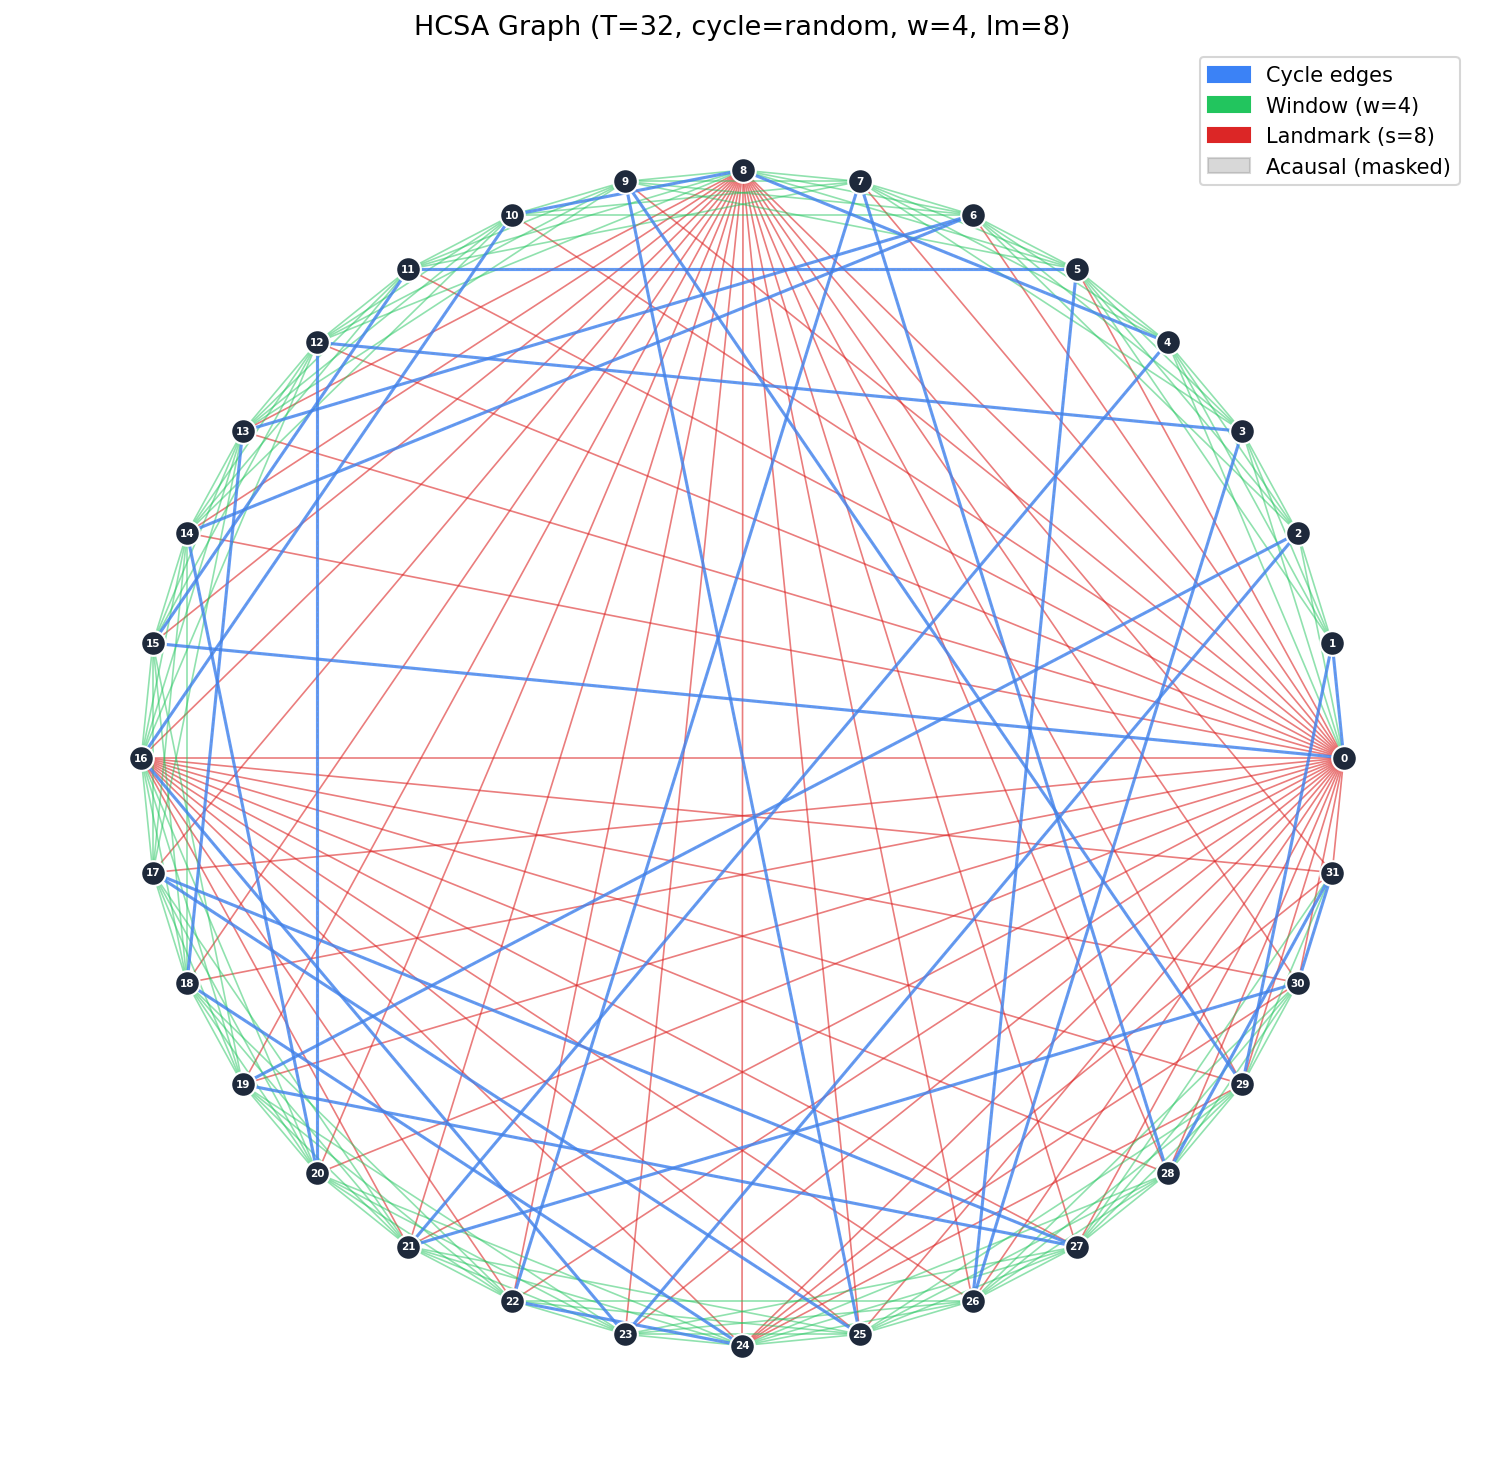
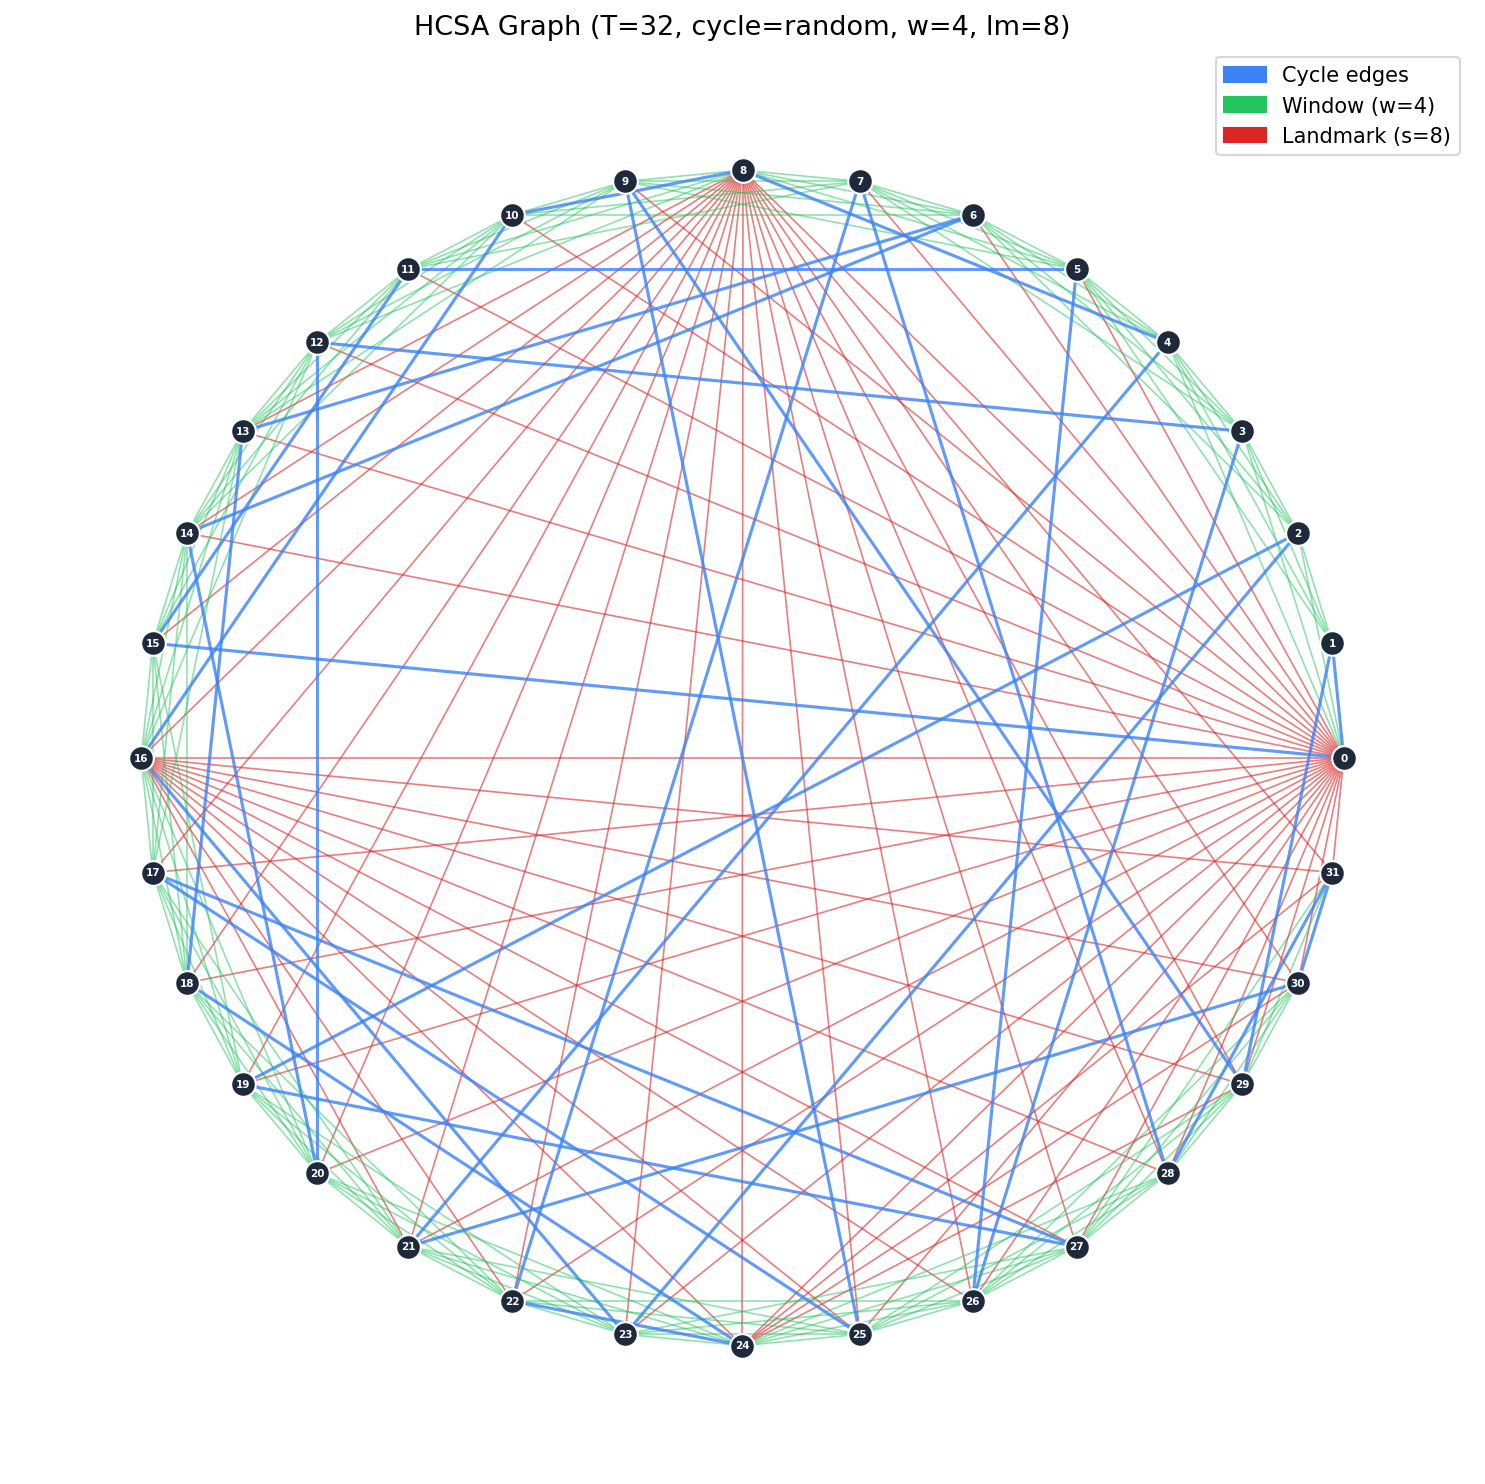
viz: drop invisible acausal edges from circle graph
Acausal edges overlapped exactly with causal ones (same node pairs,
opposite direction) so they were always hidden. Now only causal
edges are drawn — cleaner 3-color legend.

Changed region(s): [[0.8054, 0.031, 0.9912, 0.124]]

diff --git a/scripts/viz/graph_viz.py b/scripts/viz/graph_viz.py
@@ -116,24 +116,12 @@ def plot_cycle_graph(
         edges = [(u, v) for (u, v), t in edge_types.items() if t == etype]
         # Filter for causal edges (j <= i) if show_causal
         if show_causal:
-            causal_edges = [(u, v) for u, v in edges if v <= u]
-            acausal_edges = [(u, v) for u, v in edges if v > u]
-            nx.draw_networkx_edges(
-                G, pos, edgelist=causal_edges, ax=ax,
-                edge_color=color_map[etype], alpha=alpha_map[etype],
-                arrows=False, width=1.5 if etype == "cycle" else 0.8,
-            )
-            nx.draw_networkx_edges(
-                G, pos, edgelist=acausal_edges, ax=ax,
-                edge_color="gray", alpha=0.25,
-                arrows=False, width=0.5, style="dashed",
-            )
-        else:
-            nx.draw_networkx_edges(
-                G, pos, edgelist=edges, ax=ax,
-                edge_color=color_map[etype], alpha=alpha_map[etype],
-                arrows=False, width=1.5 if etype == "cycle" else 0.8,
-            )
+            edges = [(u, v) for u, v in edges if v <= u]
+        nx.draw_networkx_edges(
+            G, pos, edgelist=edges, ax=ax,
+            edge_color=color_map[etype], alpha=alpha_map[etype],
+            arrows=False, width=1.5 if etype == "cycle" else 0.8,
+        )
 
     # Draw nodes
     nx.draw_networkx_nodes(
@@ -154,10 +142,6 @@ def plot_cycle_graph(
         mpatches.Patch(color=color_map["window"], label=f"Window (w={window})"),
         mpatches.Patch(color=color_map["landmark"], label=f"Landmark (s={landmark_stride})"),
     ]
-    if show_causal:
-        legend_patches.append(
-            mpatches.Patch(color="gray", label="Acausal (masked)", alpha=0.3)
-        )
     ax.legend(handles=legend_patches, loc="upper right", fontsize=10)
 
     ax.set_title(

diff --git a/README.md b/README.md
@@ -97,7 +97,7 @@ Dense attention (left) vs HCSA connectivity (right) at T=64, W=8, stride=16:
 
 ![Dense vs HCSA attention matrices](docs/assets/attention_comparison.png)
 
-HCSA graph on 32 tokens (circle layout — blue = cycle, green = window, red = landmark, faded = acausal/masked):
+HCSA graph on 32 tokens (circle layout — blue = cycle, green = window, red = landmark; only causal edges shown):
 
 ![HCSA graph circle layout](docs/assets/hcsa_graph_circle.png)
 
